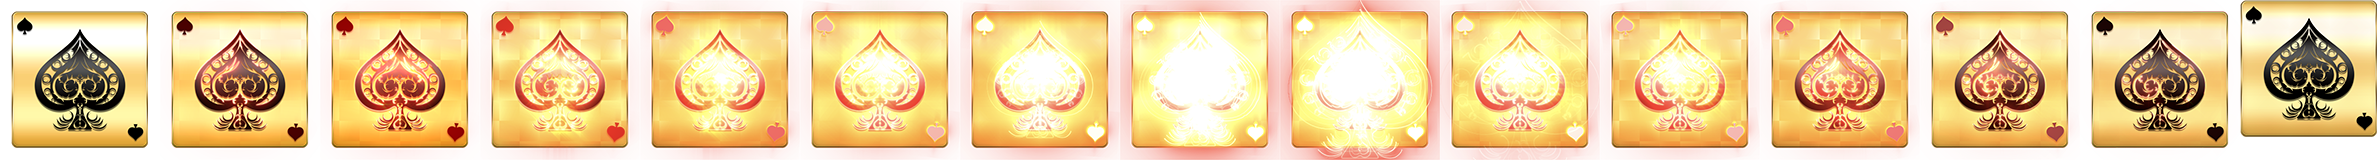
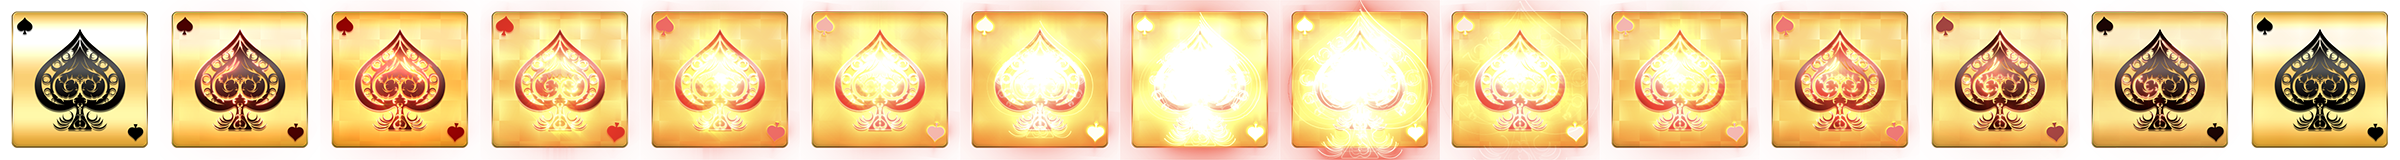
圖片修正

diff --git a/src/assets/scss/components/_body-container.scss b/src/assets/scss/components/_body-container.scss
@@ -465,7 +465,7 @@ $games: (
   25: (
     gamecode: 25,
     frames: 15,
-    width: 2377px
+    width: 2400px
   ),
   26: (
     gamecode: 26,
